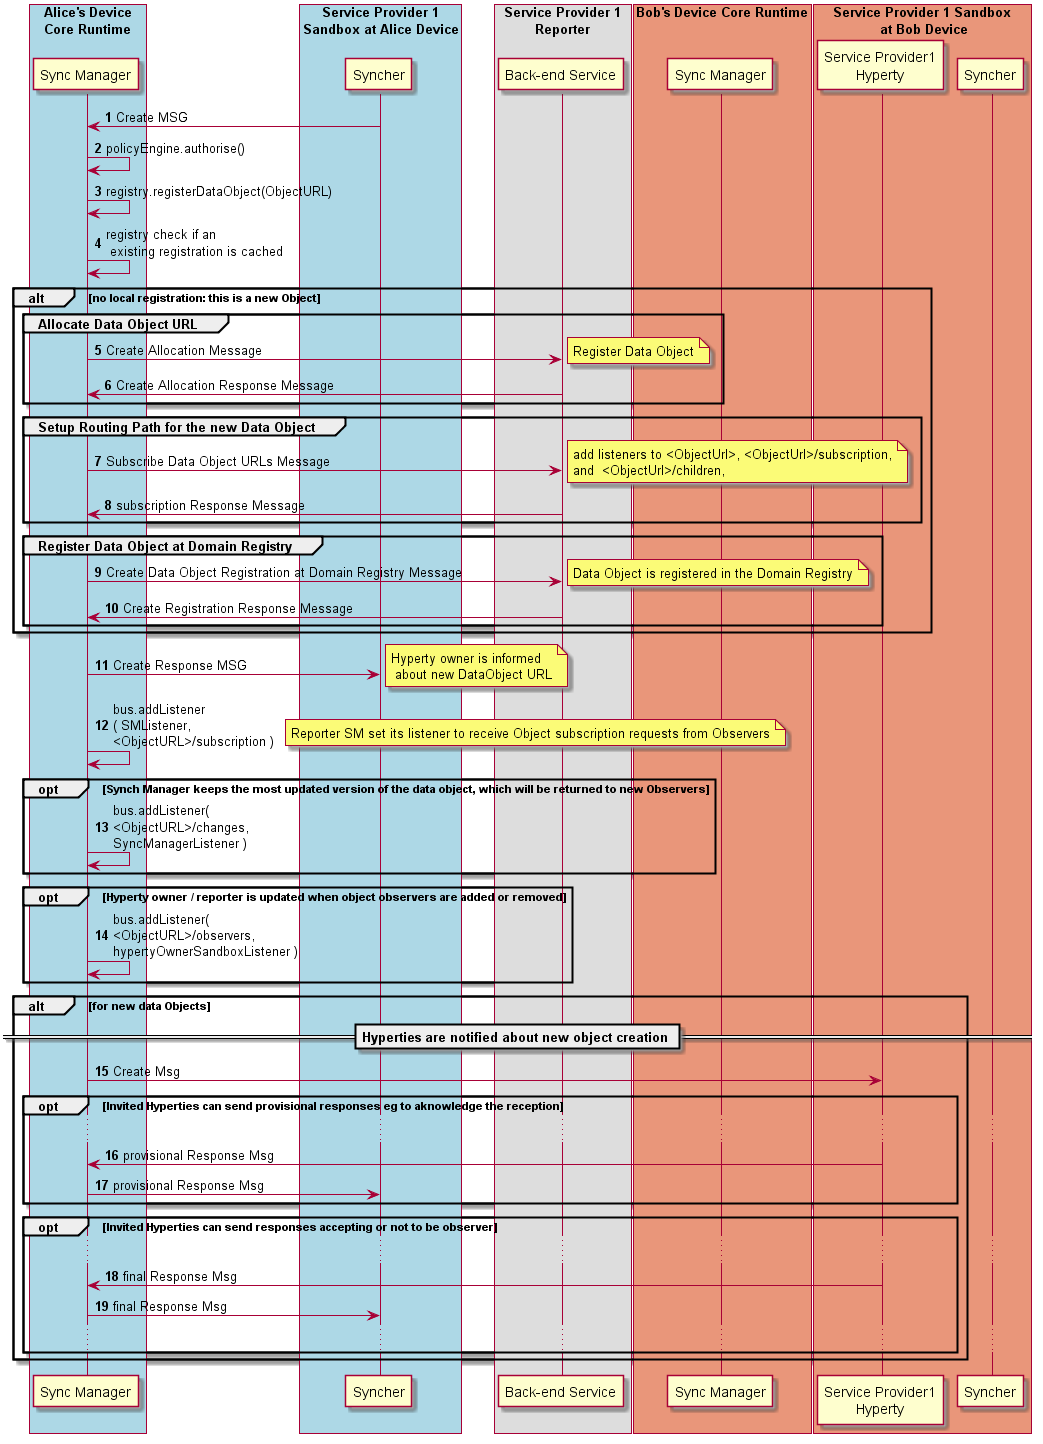
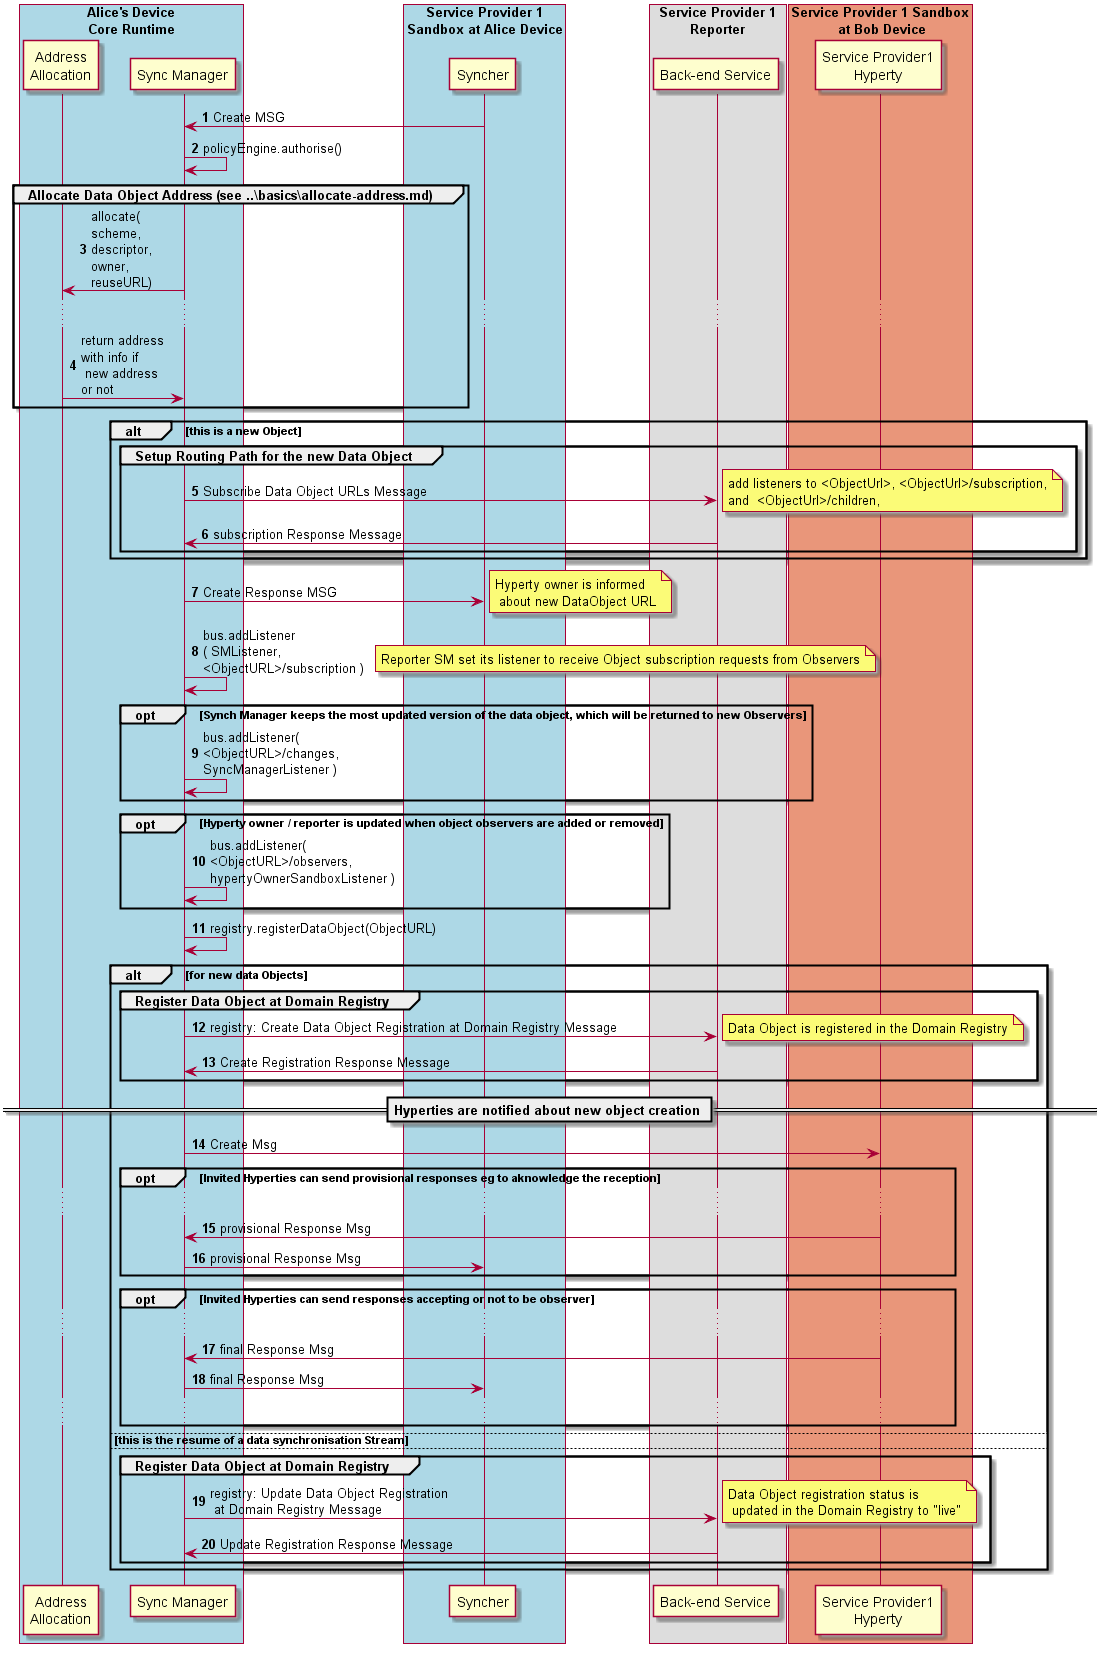
data object address allocation updated to use the new address allocation generic functionality

diff --git a/dynamic-view/data-sync/data-object-creation.md b/dynamic-view/data-sync/data-object-creation.md
@@ -4,20 +4,20 @@ This MSC diagrams shows the most relevant steps to support the setup of data obj
 
 ![Figure @runtime-basic-create-sync1 Request to create a Sync Data Object](data-object-create.png)
 
-Steps 1-4 The Data Object reporter post a [Create Message](../../messages/data-sync-messages.md#hyperty-data-object-creation) to initiate the setup of the Data Object synchronisation. The Core Police Engine applies policies to check whether Alice has permissions to create the data object.
+Steps 1-2 The Data Object reporter post a [Create Message](../../messages/data-sync-messages.md#hyperty-data-object-creation) to initiate the setup of the Data Object synchronisation. The Core Police Engine applies policies to check whether Alice has permissions to create the data object.
 
-**Phase 2 new:** in case the reporter provides an existing ObjectURL it is assumed this is the resume of a Data Sync Stream and Steps 5 - 10 are not performed.
+Steps 3-4: **Phase 2 New:** [address is allocated to the data object](allocate-address.md). In case the reporter provides an existing ObjectURL and if the returned allocated address confirms the adddress is reused, this means it is the resume of a Data Sync Stream and Steps 5 - 6 are not performed.
 
-  Steps 5 - 10 The new data object is registered in the Registry, which includes the allocation of the ObjectURL ([Create Message sent to Message Node Allocation Functionality](../../messages/address-allocation-messages.md#address-allocation-request)) and its registration in the Domain Registry ([Create Message sent to Domain Registry](../../messages/registration-messages.md#registration-request)).  Then, the Routing Path has to be set at Reporter Message Node Subscription Manager functionality ([Subscribe Message sent to Message Node Subscription Manager](../../messages/data-sync-messages.md#reporter-data-sync-routing-path-setup-request-at-reporter-message-node-for-a-new-data-object)).
+  Steps 5 - 6 : If this is a new Data Object sync, the Routing Path has to be set at Reporter Message Node Subscription Manager functionality ([Subscribe Message sent to Message Node Subscription Manager](../../messages/data-sync-messages.md#reporter-data-sync-routing-path-setup-request-at-reporter-message-node-for-a-new-data-object)).
 
-The Registry may adds a listener in the MessageBUS to be notified about status change events of the new Data Object.
+Step 7 - 8: The new address allocated to the Data Object is returned back to the Reporter with a [response message](../../messages/data-sync-messages.md#response) and the sync manager adds its listener to receive subscription requests from observers.
 
-Optionally, and again, according to applicable policies, the Reported Hyperty is added as a listener to be notified when new Observers to its Data Object are added or removed. The DataObjectObserversURL is handled by the Policy Engine.
+Step 9: Optionally, and again, according to applicable policies, a Sync Manager listener is added to receive updates about the data object that will be returned to new Observers.
 
-The new address allocated to the Data Object is returned back to the Reporter with a [response message](../../messages/data-sync-messages.md#response).
+Step 10: Optionally, and again, according to applicable policies, the Reported Hyperty is added as a listener to be notified when new Observers to its Data Object are added or removed. The DataObjectObserversURL is handled by the Policy Engine.
 
-**Phase 2 new:** in case this is the resume of a Data Sync Stream, there should no new observer to be invited.
+Step 11: The data object is registered in the Registry, which includes the allocation of the ObjectURL.
 
-  Steps 11 - 15: In case the data object creation is authorised, the [data object creation message is sent to invited Observers](../../messages/data-sync-messages.md#observer-invitation) and the Core Policy Engine takes the Hyperty Instance URLs set in the `to` header field, to set as the list of addresses that are previously authorised to be Observer for the new data object.
+Steps 12 - 18: In case this is a new data object a ([Create Message is sent to Domain Registry](../../messages/registration-messages.md#registration-request)) and the a [data object creation message is sent to invited Observers](../../messages/data-sync-messages.md#observer-invitation) and the Core Policy Engine takes the Hyperty Instance URLs set in the `to` header field, to set as the list of addresses that are previously authorised to be Observer for the new data object. Optionally, invited Observers may [respond e.g. to aknowledge the reception of the invitation and to accept or not the invitation to be an Observer](../../messages/data-sync-messages.md#response-3).
 
-  Steps 16 - 17: Optionally, invited Observers may [respond e.g. to aknowledge the reception of the invitation and to accept or not the invitation to be an Observer](../../messages/data-sync-messages.md#response-3).
+ Steps 19 - 20: **Phase 2 new:** in case this is the resume of a Data Sync Stream, an ([Update Message is sent to Domain Registry](../../messages/registration-messages.md#update-registration-to-live)) and there should be no new observer to be invited.

diff --git a/dynamic-view/basics/allocate-address.md b/dynamic-view/basics/allocate-address.md
@@ -14,4 +14,4 @@ Steps 3 - 9: If the Runtime Registry returns "Not Found", an address is allocate
 
 Step 10: otherwise, if the Runtime Registry returns an Address, no further address allocation tasks are performed.
 
-Steps 11: the allocated address is returned
+Steps 11: the allocated address is returned with information about if this is a new allocated address or not
